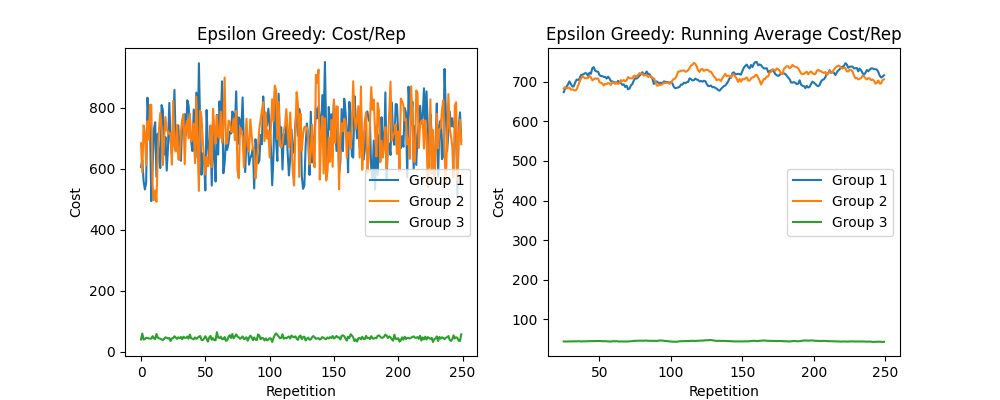
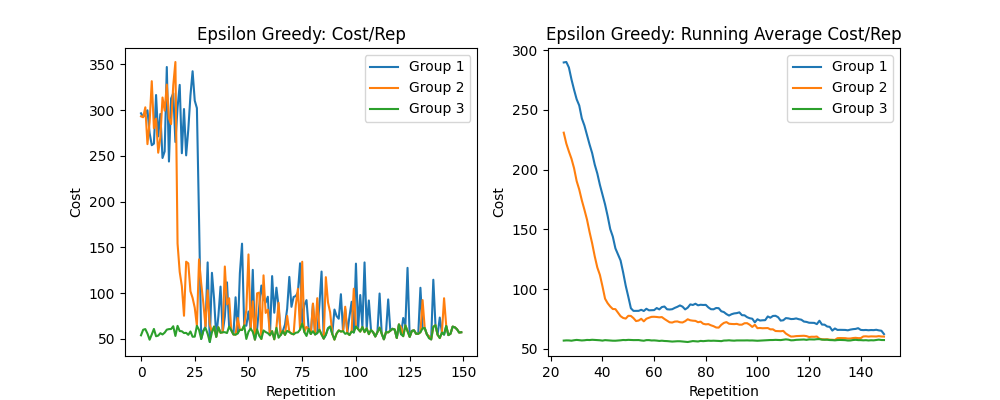
Fixed a bug I introduced to the epsilon greedy algorithm

diff --git a/PathFinder/mcmc.py b/PathFinder/mcmc.py
@@ -1,12 +1,13 @@
-import numpy as np
-
 import random
+
+import numpy as np
+import matplotlib.pyplot as plt
 
 from . import graphtools
 
 
 def mcmc(reps, traffic, graph, ids, paths, weight_dists):
-    """Uses Metropolis-Hastings algorithm in the pathfinder game loop"""
+    """Uses an adjusted MCMC algorithm in the pathfinder game loop"""
     shortest_paths = {
         'Group 1': {t_id: [] for t_id in ids},
         'Group 2': {t_id: [] for t_id in ids},
@@ -28,18 +29,40 @@ def mcmc(reps, traffic, graph, ids, paths, weight_dists):
     # Generate the actual values for the experiment
     graph.es['weight'] = [max(0, weight_func()) for weight_func in weight_dists]
 
+    # Add traffic to the shortest paths
+    for t_id in ids:
+        graphtools.add_traffic_to_path(shortest_paths['Group 1'][t_id], graph, traffic)
+        graphtools.add_traffic_to_path(shortest_paths['Group 2'][t_id], graph, traffic)
+
     # Group 3 (Knows edge weights, so it doesn't need to explore)
     for t_id in ids:
         shortest_path = min(paths[t_id], key=lambda path: graphtools.get_path_length(path, graph))
         graphtools.add_traffic_to_path(shortest_path, graph, traffic)
-
-        action = paths[t_id].index(shortest_path)
         shortest_paths['Group 3'][t_id] = shortest_path
 
-    print(shortest_paths['Group 3'])
-    for t_id in ids:
-        for group in shortest_paths:
-            print(f'{group}: {graphtools.get_path_length(shortest_paths[group][t_id], graph)}')
+    # Plot the results
+    group_names = ['Group 1', 'Group 2', 'Group 3']
+    traveller_names = [f'Traveller {i}' for i in range(len(ids))]
+    width = 0.25
+    x = np.arange(len(ids))
+
+    fig, ax = plt.subplots(layout='constrained', figsize=(10, 5))
+
+    for i, group in enumerate(group_names):
+        offset = i * width
+        lengths = [
+            round(graphtools.get_path_length(shortest_paths[group][t_id], graph), 1) for t_id in ids
+        ]
+        rects = ax.bar(x + offset, lengths, width, label=group)
+        ax.bar_label(rects, padding=3)
+
+    ax.set_ylabel('Path Length')
+    ax.set_title('Path Lengths for Each Traveller')
+    ax.set_xticks(x + width, traveller_names)
+    ax.legend()
+
+    plt.savefig('figures/mcmc_results.png')
+
 
 def mcmc_shortest_path(initial_path, reps, weight_dists, paths, graph):
     """Markov chain Monte Carlo algorithm to find the shortest path in a

diff --git a/PathFinder/epsilongreedy.py b/PathFinder/epsilongreedy.py
@@ -41,7 +41,15 @@ class Agent:
             return np.random.choice(np.flatnonzero(self.Q == self.Q.min()))
 
 
-def epsilon_greedy(reps, epsilon, traffic, graph, ids, paths, weight_dists):
+def epsilon_greedy(reps, epsilon, traffic, graph, ids, all_paths, weight_dists):
+    # Take 25 shortest paths by number of edges. This number is arbitrary but seems to work well.
+    paths = all_paths.copy()
+
+    for t_id in ids:
+        if len(paths[t_id]) > 25:
+            paths[t_id].sort(key=len)
+            paths[t_id] = paths[t_id][:25]
+
     actions1 = {}
     rewards1 = {}
     actions2 = {}
@@ -58,12 +66,6 @@ def epsilon_greedy(reps, epsilon, traffic, graph, ids, paths, weight_dists):
 
     agent1 = {t_id: Agent(len(paths[t_id]), epsilon) for t_id in ids}
     agent2 = {t_id: Agent(len(paths[t_id]), epsilon) for t_id in ids}
-
-
-    if len(paths) > 25:
-        # Take 25 shortest paths by number of edges. This number is arbitrary but seems to work well.
-        paths.sort(key=len)
-        paths = paths[:25]
 
     # Main Game Loop
     for _ in range(reps):

diff --git a/PathFinder/pathfinder.py b/PathFinder/pathfinder.py
@@ -9,7 +9,7 @@ from . import epsilongreedy
 from . import mcmc
 
 
-random.seed(42)
+# random.seed(42)
 
 
 def run(nodes, edges, travellers, reps, epsilon, traffic):
@@ -24,11 +24,14 @@ def run(nodes, edges, travellers, reps, epsilon, traffic):
     graph_layout = graph.layout_auto()  # Need this here so it doesn't change every time we plot
 
     # Epsilon Greedy Strategy
-    # epsilongreedy.epsilon_greedy(reps, epsilon, traffic, graph, ids, paths, weight_dists)
+    print('Starting Epsilon Greedy Strategy')
+    epsilongreedy.epsilon_greedy(reps, epsilon, traffic, graph, ids, paths, weight_dists)
+    print('Saved Epsilon Greedy plot to `figures/epsilon_greedy_results.png`\n')
 
     # Markov Chain Monte Carlo (MCMC) Strategy
+    print('Starting MCMC Strategy')
     mcmc.mcmc(reps, traffic, graph, ids, paths, weight_dists)
-
+    print('Saved MCMC plot to `figures/mcmc_results.png`')
 
 
 def get_paths(graph, goal):

diff --git a/PathFinder/__main__.py b/PathFinder/__main__.py
@@ -7,7 +7,7 @@ def main():
     kwargs = {
         'nodes': 40,
         'edges': 50,
-        'travellers': 5,
+        'travellers': 10,
         'reps': 150,
         'epsilon': 0.2,
         'traffic': 5
